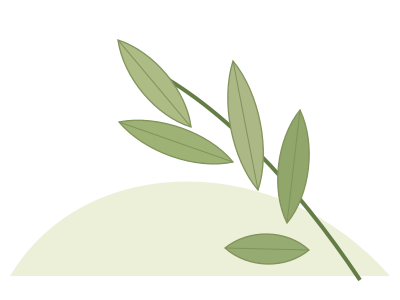
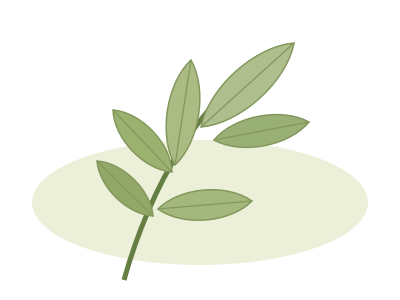
Match Today empty state to approved reference

diff --git a/App.tsx b/App.tsx
@@ -138,11 +138,13 @@ export function PillAction({
   accessibilityLabel,
   onPress,
   secondary = false,
+  showPlus = false,
 }: {
   title: string;
   accessibilityLabel?: string;
   onPress: () => void;
   secondary?: boolean;
+  showPlus?: boolean;
 }) {
   return (
     <Pressable
@@ -152,6 +154,7 @@ export function PillAction({
       style={[styles.pillAction, secondary && styles.pillSecondary]}
     >
       <Text style={[styles.pillLabel, secondary && styles.pillSecondaryLabel]}>
+        {showPlus && <Text style={styles.plusIcon}>＋ </Text>}
         {title}
       </Text>
     </Pressable>
@@ -421,6 +424,26 @@ export default function App() {
         ) : (
           <>
             <ScrollView contentContainerStyle={styles.content}>
+              {screen === 'today' && (
+                <View style={styles.brandRow}>
+                  <View style={styles.brandName}>
+                    <Image
+                      source={require('./assets/today-leaf.png')}
+                      style={styles.brandLeaf}
+                      resizeMode="contain"
+                    />
+                    <Text style={styles.brandText}>Pill Reminder</Text>
+                  </View>
+                  <Pressable
+                    accessibilityRole="button"
+                    accessibilityLabel={t.settings}
+                    onPress={() => setScreen('access')}
+                    hitSlop={12}
+                  >
+                    <Text style={styles.moreIcon}>⋮</Text>
+                  </Pressable>
+                </View>
+              )}
               {screen === 'today' ? (
                 <View style={styles.headerArt}>
                   <View style={styles.headerCopy}>
@@ -493,6 +516,7 @@ export default function App() {
                         <Text style={styles.emptyHelp}>{t.emptyHelp}</Text>
                         <View style={styles.emptyAction}>
                           <PillAction
+                            showPlus
                             title={t.add}
                             onPress={() => setScreen('setup')}
                           />
@@ -826,9 +850,20 @@ export default function App() {
                       screen === tab && styles.navSelected,
                     ]}
                   >
-                    <Text accessible={false} style={styles.navIcon}>
-                      {tab === 'today' ? '⌂' : tab === 'reminders' ? '☷' : '◷'}
-                    </Text>
+                    <View accessible={false} style={styles.navIconBox}>
+                      {tab === 'today' ? (
+                        <View style={styles.calendarIcon}>
+                          <View style={styles.calendarTop} />
+                          <Text style={styles.calendarNumber}>·</Text>
+                        </View>
+                      ) : tab === 'reminders' ? (
+                        <Text style={styles.listIcon}>☷</Text>
+                      ) : (
+                        <View style={styles.clockIcon}>
+                          <View style={styles.clockHand} />
+                        </View>
+                      )}
+                    </View>
                     <Text style={styles.navText}>{t[tab]}</Text>
                   </Pressable>
                 ))}
@@ -867,19 +902,70 @@ const styles = StyleSheet.create({
     borderRadius: 14,
   },
   navSelected: { backgroundColor: '#e0e9c7' },
-  navIcon: { fontSize: 24, lineHeight: 27, color: '#263c26' },
+  navIconBox: {
+    width: 25,
+    height: 27,
+    alignItems: 'center',
+    justifyContent: 'center',
+  },
+  calendarIcon: {
+    width: 17,
+    height: 17,
+    borderWidth: 1.8,
+    borderColor: '#12251a',
+    borderRadius: 2,
+  },
+  calendarTop: {
+    height: 5,
+    borderBottomWidth: 1.5,
+    borderBottomColor: '#12251a',
+  },
+  calendarNumber: {
+    color: '#12251a',
+    textAlign: 'center',
+    lineHeight: 8,
+    fontWeight: '700',
+  },
+  listIcon: { fontSize: 24, lineHeight: 27, color: '#12251a' },
+  clockIcon: {
+    width: 19,
+    height: 19,
+    borderWidth: 1.8,
+    borderColor: '#12251a',
+    borderRadius: 10,
+    alignItems: 'center',
+  },
+  clockHand: {
+    width: 5,
+    height: 7,
+    borderLeftWidth: 1.5,
+    borderBottomWidth: 1.5,
+    borderColor: '#12251a',
+    marginTop: 2,
+  },
   navText: {
     textAlign: 'center',
     color: '#253b29',
     fontSize: 12,
     fontWeight: '600',
   },
+  brandRow: {
+    flexDirection: 'row',
+    justifyContent: 'space-between',
+    alignItems: 'center',
+    minHeight: 36,
+    marginBottom: 8,
+  },
+  brandName: { flexDirection: 'row', alignItems: 'center', gap: 6 },
+  brandLeaf: { width: 34, height: 30 },
+  brandText: { color: '#17231a', fontSize: 17, fontWeight: '700' },
+  moreIcon: { color: '#142219', fontSize: 27, lineHeight: 32 },
   headerArt: {
     flexDirection: 'row',
     alignItems: 'center',
     justifyContent: 'space-between',
-    minHeight: 100,
-    marginBottom: 2,
+    minHeight: 76,
+    marginBottom: 0,
   },
   headerCopy: { flex: 1, zIndex: 1 },
   todayTitle: {
@@ -941,14 +1027,14 @@ const styles = StyleSheet.create({
   compactCard: { backgroundColor: '#fffdf7', borderRadius: 14, padding: 14 },
   emptyCard: {
     alignItems: 'center',
-    paddingHorizontal: 10,
-    paddingTop: 28,
-    paddingBottom: 20,
+    paddingHorizontal: 0,
+    paddingTop: 32,
+    paddingBottom: 12,
   },
-  emptyLeaf: { width: 220, height: 145, marginBottom: 8 },
+  emptyLeaf: { width: 210, height: 140, marginBottom: 4 },
   emptyTitle: {
     color: '#17291b',
-    fontSize: 25,
+    fontSize: 22,
     textAlign: 'center',
     fontWeight: '700',
   },
@@ -982,6 +1068,7 @@ const styles = StyleSheet.create({
     textAlign: 'center',
   },
   pillSecondaryLabel: { color: '#36542b' },
+  plusIcon: { fontSize: 22, fontWeight: '400' },
   accessLink: {
     alignSelf: 'center',
     paddingVertical: 12,
